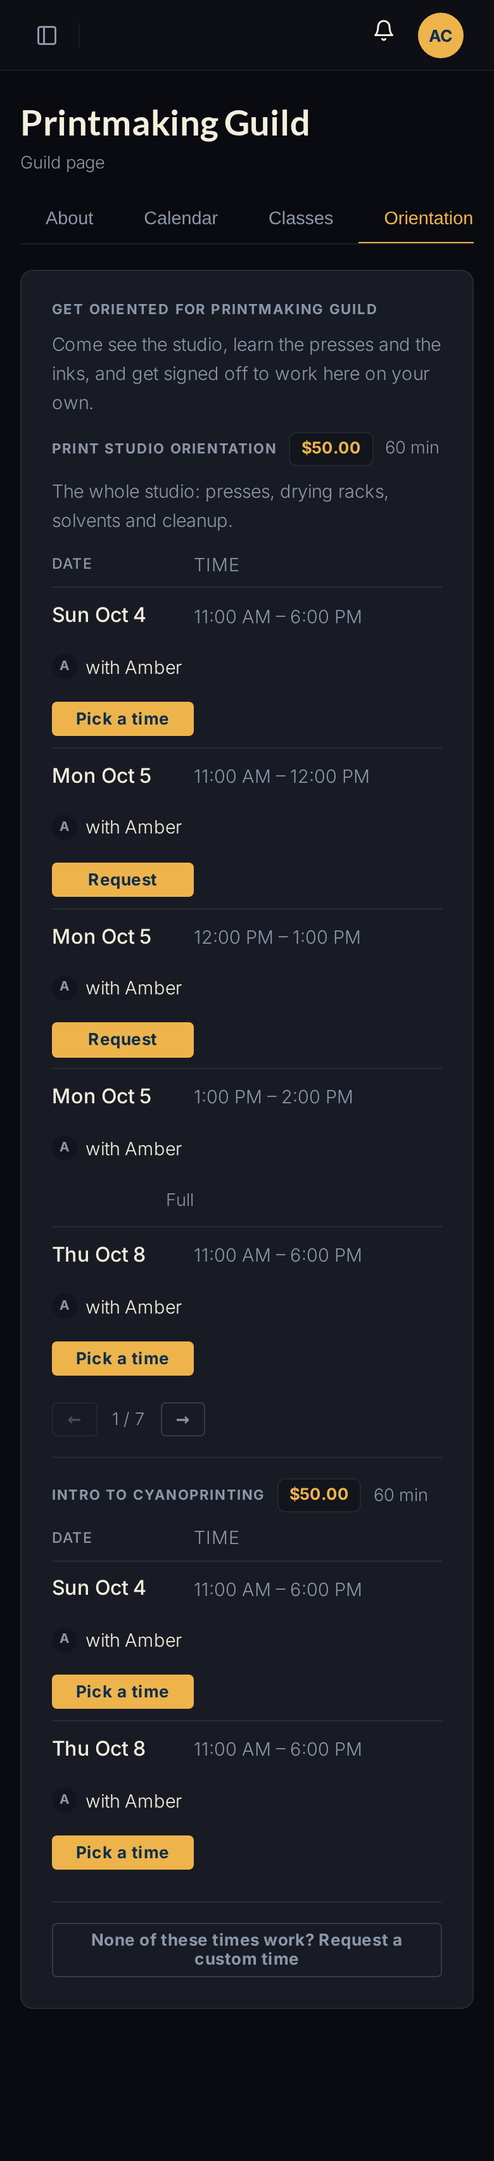
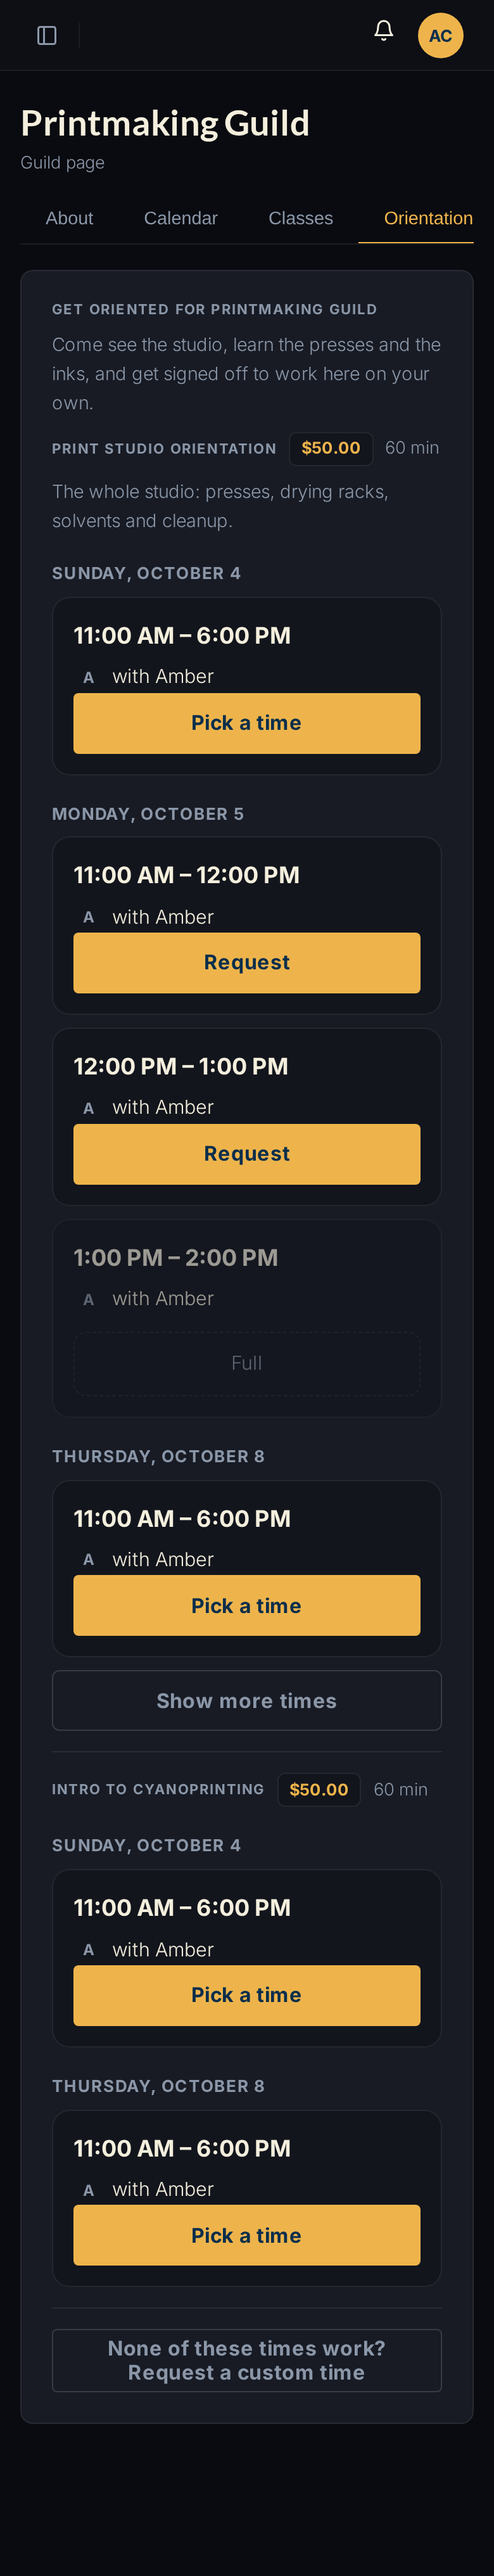
docs: phone layout for the #532 member list mockup, and the approved decisions in the plan
Day headers and one card per time with a full width button on a phone, Show more
times in place of the pager, a full width picker submit. Desktop unchanged.

diff --git a/mockups/532-orientation-open-windows.html b/mockups/532-orientation-open-windows.html
@@ -42,6 +42,37 @@
 /* Add a one off: the revealed form's field lines (same shape as the hours row). */
 .pl-oneoff { margin-top: 1rem; padding-top: 1rem; border-top: 1px solid var(--hub-border); }
 .pl-oneoff__actions { display: flex; gap: 0.75rem; margin-top: 1rem; }
+
+/* Merged times list on the guild page (part 3). One markup, two layouts.
+   Desktop (the approved layout): one row per time, date | time | with | action.
+   Phone: a day header, then one card per time with a large, centered, full width
+   button; the pager becomes a Show more button. */
+.pl-orient-times { list-style: none; margin: 0; padding: 0; }
+.pl-orient-times__head, .pl-orient-time { display: flex; align-items: center; gap: 1rem; }
+.pl-orient-times__head { padding: 0 0 0.4rem; font-size: 0.72rem; text-transform: uppercase; letter-spacing: 0.04em; color: var(--hub-text-muted); }
+.pl-orient-time { padding: 0.55rem 0; border-top: 1px solid var(--hub-border); }
+.pl-orient-time__date { flex: 0 0 6rem; font-weight: 500; }
+.pl-orient-time__span { flex: 1; color: var(--hub-text-muted); font-size: 0.9rem; }
+.pl-orient-time__with { flex: 1; display: flex; align-items: center; gap: 0.4rem; min-width: 0; font-size: 0.9rem; }
+.pl-orient-time__action { flex: 0 0 7rem; text-align: right; }
+.pl-orient-time__action .hub-btn { width: 100%; }
+.pl-orient-time__full { color: var(--hub-text-muted); font-size: 0.85rem; }
+.pl-orient-times__day, .pl-orient-times__more { display: none; }
+@media (max-width: 640px) {
+    .pl-orient-times__head, .pl-orient-time__date, .pl-orient-slots__pager { display: none; }
+    .pl-orient-times__day { display: block; margin: 1.25rem 0 0.5rem; font-size: 0.8125rem; font-weight: 700; text-transform: uppercase; letter-spacing: 0.05em; color: var(--hub-text-muted); }
+    .pl-orient-time { display: block; padding: 1rem; margin: 0 0 0.625rem; border: 1px solid var(--hub-border); border-radius: 14px; background: var(--hub-surface); }
+    .pl-orient-time__span { display: block; font-size: 1.125rem; font-weight: 600; color: var(--hub-text); }
+    .pl-orient-time__with { margin-top: 0.35rem; font-size: 0.95rem; }
+    .pl-orient-time__with .pl-orient-avatar { width: 24px; height: 24px; font-size: 0.75rem; }
+    .pl-orient-time__action { margin-top: 0.875rem; text-align: center; }
+    .pl-orient-time__action .hub-btn { display: inline-flex; align-items: center; justify-content: center; width: 100%; min-height: 48px; font-size: 1rem; }
+    .pl-orient-time--full { opacity: 0.6; }
+    .pl-orient-time__full { display: block; margin-top: 0.875rem; padding: 0.75rem 0; text-align: center; border-radius: 10px; border: 1px dashed var(--hub-border); font-size: 0.95rem; }
+    .pl-orient-times__more { display: block; margin-top: 0.25rem; }
+    .pl-orient-times__more .hub-btn, .pl-orient-custom .hub-btn, .pl-orient-pick__submit .hub-btn { display: inline-flex; align-items: center; justify-content: center; width: 100%; min-height: 48px; font-size: 1rem; white-space: normal; }
+    .pl-orient-pick .pl-form-group select, .pl-orient-pick .pl-form-group textarea { min-height: 48px; font-size: 1rem; }
+}
 </style>
 <style>
 /* ---------- mockup-only ---------- */
@@ -367,42 +398,45 @@ html.mock-phone .hub-main-wrapper { margin-left: 0 !important; }
               <span class="hub-text-muted" style="font-size:0.85rem;">60 min</span>
             </div>
             <p class="hub-text-muted" style="margin:0.25rem 0 0.75rem; font-size:0.9rem;">The whole studio: presses, drying racks, solvents and cleanup.</p>
-            <div class="pl-orient-slots__head">
-              <span class="pl-orient-slots__date">Date</span>
-              <span class="pl-orient-slots__time">Time</span>
-              <span class="pl-orient-slots__with"></span>
-              <span class="pl-orient-slots__action"></span>
+            <div class="pl-orient-times__head">
+              <span class="pl-orient-time__date">Date</span>
+              <span class="pl-orient-time__span">Time</span>
+              <span class="pl-orient-time__with"></span>
+              <span class="pl-orient-time__action"></span>
             </div>
-            <ul class="mock-list">
-              <li class="pl-orient-slots__row">
-                <span class="pl-orient-slots__date">Sun Oct 4</span>
-                <span class="pl-orient-slots__time">11:00 AM – 6:00 PM</span>
-                <span class="pl-orient-slots__with"><span class="pl-orient-avatar pl-orient-avatar--initials">A</span><span>with Amber</span></span>
-                <span class="pl-orient-slots__action"><button type="button" class="hub-btn hub-btn--sm hub-btn--primary">Pick a time</button></span>
+            <ul class="pl-orient-times">
+              <li class="pl-orient-times__day">Sunday, October 4</li>
+              <li class="pl-orient-time">
+                <span class="pl-orient-time__date">Sun Oct 4</span>
+                <span class="pl-orient-time__span">11:00 AM – 6:00 PM</span>
+                <span class="pl-orient-time__with"><span class="pl-orient-avatar pl-orient-avatar--initials">A</span><span>with Amber</span></span>
+                <span class="pl-orient-time__action"><button type="button" class="hub-btn hub-btn--sm hub-btn--primary">Pick a time</button></span>
               </li>
-              <li class="pl-orient-slots__row">
-                <span class="pl-orient-slots__date">Mon Oct 5</span>
-                <span class="pl-orient-slots__time">11:00 AM – 12:00 PM</span>
-                <span class="pl-orient-slots__with"><span class="pl-orient-avatar pl-orient-avatar--initials">A</span><span>with Amber</span></span>
-                <span class="pl-orient-slots__action"><button type="button" class="hub-btn hub-btn--sm hub-btn--primary">Request</button></span>
+              <li class="pl-orient-times__day">Monday, October 5</li>
+              <li class="pl-orient-time">
+                <span class="pl-orient-time__date">Mon Oct 5</span>
+                <span class="pl-orient-time__span">11:00 AM – 12:00 PM</span>
+                <span class="pl-orient-time__with"><span class="pl-orient-avatar pl-orient-avatar--initials">A</span><span>with Amber</span></span>
+                <span class="pl-orient-time__action"><button type="button" class="hub-btn hub-btn--sm hub-btn--primary">Request</button></span>
               </li>
-              <li class="pl-orient-slots__row">
-                <span class="pl-orient-slots__date">Mon Oct 5</span>
-                <span class="pl-orient-slots__time">12:00 PM – 1:00 PM</span>
-                <span class="pl-orient-slots__with"><span class="pl-orient-avatar pl-orient-avatar--initials">A</span><span>with Amber</span></span>
-                <span class="pl-orient-slots__action"><button type="button" class="hub-btn hub-btn--sm hub-btn--primary">Request</button></span>
+              <li class="pl-orient-time">
+                <span class="pl-orient-time__date">Mon Oct 5</span>
+                <span class="pl-orient-time__span">12:00 PM – 1:00 PM</span>
+                <span class="pl-orient-time__with"><span class="pl-orient-avatar pl-orient-avatar--initials">A</span><span>with Amber</span></span>
+                <span class="pl-orient-time__action"><button type="button" class="hub-btn hub-btn--sm hub-btn--primary">Request</button></span>
               </li>
-              <li class="pl-orient-slots__row">
-                <span class="pl-orient-slots__date">Mon Oct 5</span>
-                <span class="pl-orient-slots__time">1:00 PM – 2:00 PM</span>
-                <span class="pl-orient-slots__with"><span class="pl-orient-avatar pl-orient-avatar--initials">A</span><span>with Amber</span></span>
-                <span class="pl-orient-slots__action"><span class="hub-text-muted" style="font-size:0.85rem;">Full</span></span>
+              <li class="pl-orient-time pl-orient-time--full">
+                <span class="pl-orient-time__date">Mon Oct 5</span>
+                <span class="pl-orient-time__span">1:00 PM – 2:00 PM</span>
+                <span class="pl-orient-time__with"><span class="pl-orient-avatar pl-orient-avatar--initials">A</span><span>with Amber</span></span>
+                <span class="pl-orient-time__action"><span class="pl-orient-time__full">Full</span></span>
               </li>
-              <li class="pl-orient-slots__row">
-                <span class="pl-orient-slots__date">Thu Oct 8</span>
-                <span class="pl-orient-slots__time">11:00 AM – 6:00 PM</span>
-                <span class="pl-orient-slots__with"><span class="pl-orient-avatar pl-orient-avatar--initials">A</span><span>with Amber</span></span>
-                <span class="pl-orient-slots__action"><button type="button" class="hub-btn hub-btn--sm hub-btn--primary">Pick a time</button></span>
+              <li class="pl-orient-times__day">Thursday, October 8</li>
+              <li class="pl-orient-time">
+                <span class="pl-orient-time__date">Thu Oct 8</span>
+                <span class="pl-orient-time__span">11:00 AM – 6:00 PM</span>
+                <span class="pl-orient-time__with"><span class="pl-orient-avatar pl-orient-avatar--initials">A</span><span>with Amber</span></span>
+                <span class="pl-orient-time__action"><button type="button" class="hub-btn hub-btn--sm hub-btn--primary">Pick a time</button></span>
               </li>
             </ul>
             <div class="pl-orient-slots__pager">
@@ -410,6 +444,7 @@ html.mock-phone .hub-main-wrapper { margin-left: 0 !important; }
               <span class="hub-text-muted mock-pager-count">1 / 7</span>
               <button type="button" class="hub-btn hub-btn--sm hub-btn--ghost" aria-label="More">→</button>
             </div>
+            <div class="pl-orient-times__more"><button type="button" class="hub-btn hub-btn--ghost">Show more times</button></div>
           </div>
 
           <div class="mock-section">
@@ -418,29 +453,31 @@ html.mock-phone .hub-main-wrapper { margin-left: 0 !important; }
               <span class="pl-price-chip">$50.00</span>
               <span class="hub-text-muted" style="font-size:0.85rem;">60 min</span>
             </div>
-            <div class="pl-orient-slots__head">
-              <span class="pl-orient-slots__date">Date</span>
-              <span class="pl-orient-slots__time">Time</span>
-              <span class="pl-orient-slots__with"></span>
-              <span class="pl-orient-slots__action"></span>
+            <div class="pl-orient-times__head">
+              <span class="pl-orient-time__date">Date</span>
+              <span class="pl-orient-time__span">Time</span>
+              <span class="pl-orient-time__with"></span>
+              <span class="pl-orient-time__action"></span>
             </div>
-            <ul class="mock-list">
-              <li class="pl-orient-slots__row">
-                <span class="pl-orient-slots__date">Sun Oct 4</span>
-                <span class="pl-orient-slots__time">11:00 AM – 6:00 PM</span>
-                <span class="pl-orient-slots__with"><span class="pl-orient-avatar pl-orient-avatar--initials">A</span><span>with Amber</span></span>
-                <span class="pl-orient-slots__action"><button type="button" class="hub-btn hub-btn--sm hub-btn--primary">Pick a time</button></span>
+            <ul class="pl-orient-times">
+              <li class="pl-orient-times__day">Sunday, October 4</li>
+              <li class="pl-orient-time">
+                <span class="pl-orient-time__date">Sun Oct 4</span>
+                <span class="pl-orient-time__span">11:00 AM – 6:00 PM</span>
+                <span class="pl-orient-time__with"><span class="pl-orient-avatar pl-orient-avatar--initials">A</span><span>with Amber</span></span>
+                <span class="pl-orient-time__action"><button type="button" class="hub-btn hub-btn--sm hub-btn--primary">Pick a time</button></span>
               </li>
-              <li class="pl-orient-slots__row">
-                <span class="pl-orient-slots__date">Thu Oct 8</span>
-                <span class="pl-orient-slots__time">11:00 AM – 6:00 PM</span>
-                <span class="pl-orient-slots__with"><span class="pl-orient-avatar pl-orient-avatar--initials">A</span><span>with Amber</span></span>
-                <span class="pl-orient-slots__action"><button type="button" class="hub-btn hub-btn--sm hub-btn--primary">Pick a time</button></span>
+              <li class="pl-orient-times__day">Thursday, October 8</li>
+              <li class="pl-orient-time">
+                <span class="pl-orient-time__date">Thu Oct 8</span>
+                <span class="pl-orient-time__span">11:00 AM – 6:00 PM</span>
+                <span class="pl-orient-time__with"><span class="pl-orient-avatar pl-orient-avatar--initials">A</span><span>with Amber</span></span>
+                <span class="pl-orient-time__action"><button type="button" class="hub-btn hub-btn--sm hub-btn--primary">Pick a time</button></span>
               </li>
             </ul>
           </div>
 
-          <div class="mock-section">
+          <div class="mock-section pl-orient-custom">
             <button type="button" class="hub-btn hub-btn--sm hub-btn--ghost">None of these times work? Request a custom time</button>
           </div>
         </section>
@@ -457,7 +494,7 @@ html.mock-phone .hub-main-wrapper { margin-left: 0 !important; }
             <div class="pl-modal__body">
               <p style="margin:0 0 0.25rem; font-weight:700; color:var(--hub-text);">Print Studio Orientation · 60 min</p>
               <p class="hub-text-muted" style="margin:0 0 0.75rem; font-size:0.9rem;">Sunday, October 4 · 11:00 AM to 6:00 PM · Print Studio · with Amber Capwell</p>
-              <form class="hub-form">
+              <form class="hub-form pl-orient-pick">
                 <div class="pl-form-group">
                   <label class="pl-form-label">Start time</label>
                   <select>
@@ -471,7 +508,7 @@ html.mock-phone .hub-main-wrapper { margin-left: 0 !important; }
                   <textarea rows="2" placeholder="Anything Amber should know"></textarea>
                 </div>
                 <p class="hub-text-muted" style="margin:0.75rem 0 0; font-size:0.85rem;">You pay $50.00 when you book, with an automatic full refund if the guild can't make it work.</p>
-                <div style="margin-top:0.75rem;">
+                <div class="pl-orient-pick__submit" style="margin-top:0.75rem;">
                   <button type="submit" class="hub-btn hub-btn--sm hub-btn--primary">Continue to payment</button>
                 </div>
               </form>

diff --git a/docs/plans/2026-09-30-532-orientation-open-windows.md b/docs/plans/2026-09-30-532-orientation-open-windows.md
@@ -6,7 +6,9 @@ Brief: one availability model, a per row choice of how members book, the dashboa
 the window engine; do not rebuild it. Every existing hours row keeps working unchanged.
 
 Mockups (approved by Felix before part 1 opens): `mockups/532-orientation-open-windows.html`
-(`?view=schedule|editor|member|picker`, `?theme=light`) and `mockups/screenshots/532-open-windows-0*.png`.
+(`?view=schedule|editor|member|picker`, `?theme=light`, `&phone=1`) and `mockups/screenshots/532-open-windows-01.png` to `-09.png`.
+
+Approved by Felix 2026-09-30: the desktop screens as drawn (D1 stands) and D7's fixed with fixed exception. The phone layout (D10, screenshots 08 and 09) was redrawn the same day after his review and awaits his yes.
 
 ## Words
 
@@ -54,6 +56,15 @@ Mockups (approved by Felix before part 1 opens): `mockups/532-orientation-open-w
   `source=FROM_BLOCK`) and windows (`upcoming()`, type NULL or this type, `valid_starts_for(type)` non
   empty), sorted by `starts_at`, each tagged `kind` (`slot` / `window`). The template renders one `<ul>`;
   a window row's action is today's Pick a time button and modal. The "Pick a Time" sub heading goes.
+  On a phone (640px and under) the same markup lays out as a day header (`.pl-orient-times__day`,
+  one per local date via `{% ifchanged %}`) and one card per time (`.pl-orient-time`): the span in
+  1.125rem semibold, "with Amber" under it, and a full width 48px button, Request or Pick a time; a
+  full fixed slot is a dimmed card with a dashed Full bar. The pager hides and a full width "Show more
+  times" button shows instead; both read the list's Alpine `page` and `size`, and a row's visibility is
+  `mobile ? i < (page + 1) * size : (i >= page * size && i < (page + 1) * size)` with `mobile` from
+  `window.matchMedia('(max-width: 640px)').matches` in the list's `x-data`. The custom time button and
+  the picker's submit are full width 48px on a phone; the picker's select and textarea grow to 48px.
+  The CSS is the `.pl-orient-times*` and `.pl-orient-time*` block in the mockup's first `<style>`.
 - D11. Upcoming Times (the tab card) lists `upcoming_times_admin`: slots minus `FROM_BLOCK` plus
   `guild.orientation_blocks.upcoming()`, sorted. A window row shows the orienter, "open window",
   recurring or one off, and its `booked_segments()` (time, orientation, member, status) or "nothing booked
